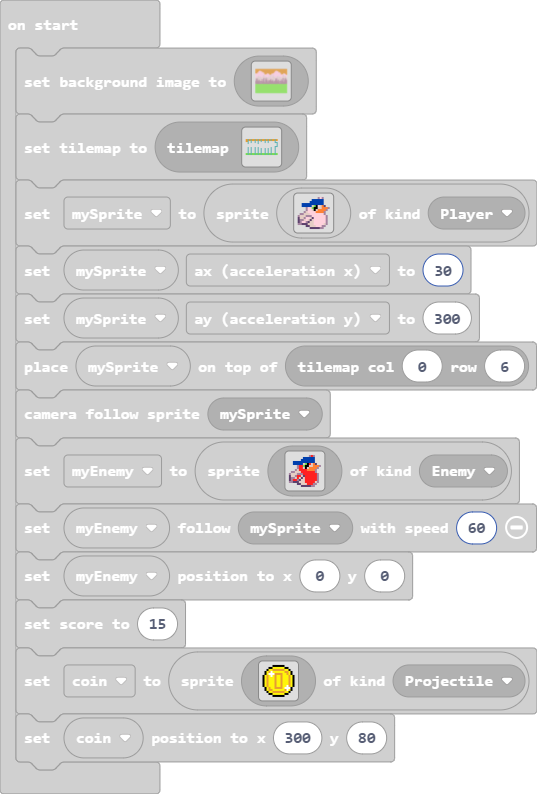
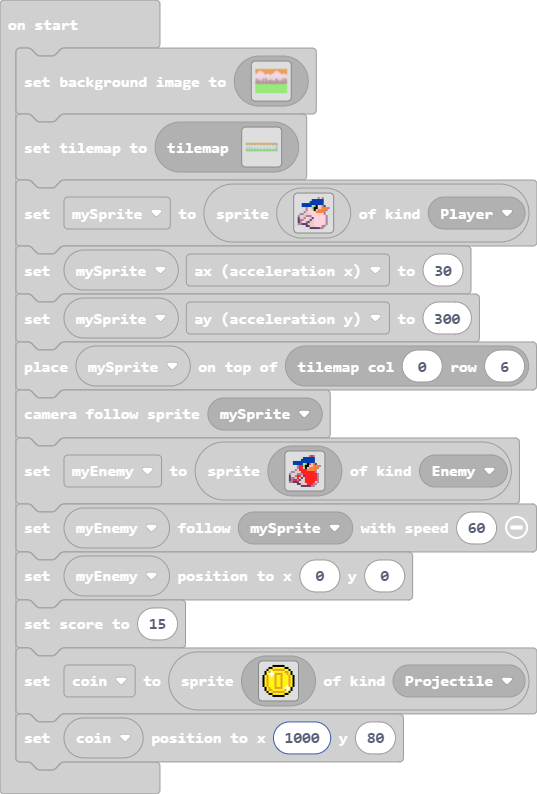
Update main.blocks, main.ts

Changed region(s): [[0.5065, 0.9068, 0.7747, 0.9673], [0.4469, 0.1511, 0.5363, 0.2116], [0.8343, 0.3325, 0.8641, 0.3627]]

diff --git a/main.ts b/main.ts
@@ -258,4 +258,4 @@ let coin = sprites.create(img`
     . . . f f 5 5 5 5 5 5 f f . . . 
     . . . . . f f f f f f . . . . . 
     `, SpriteKind.Projectile)
-coin.setPosition(300, 80)
+coin.setPosition(1000, 80)
